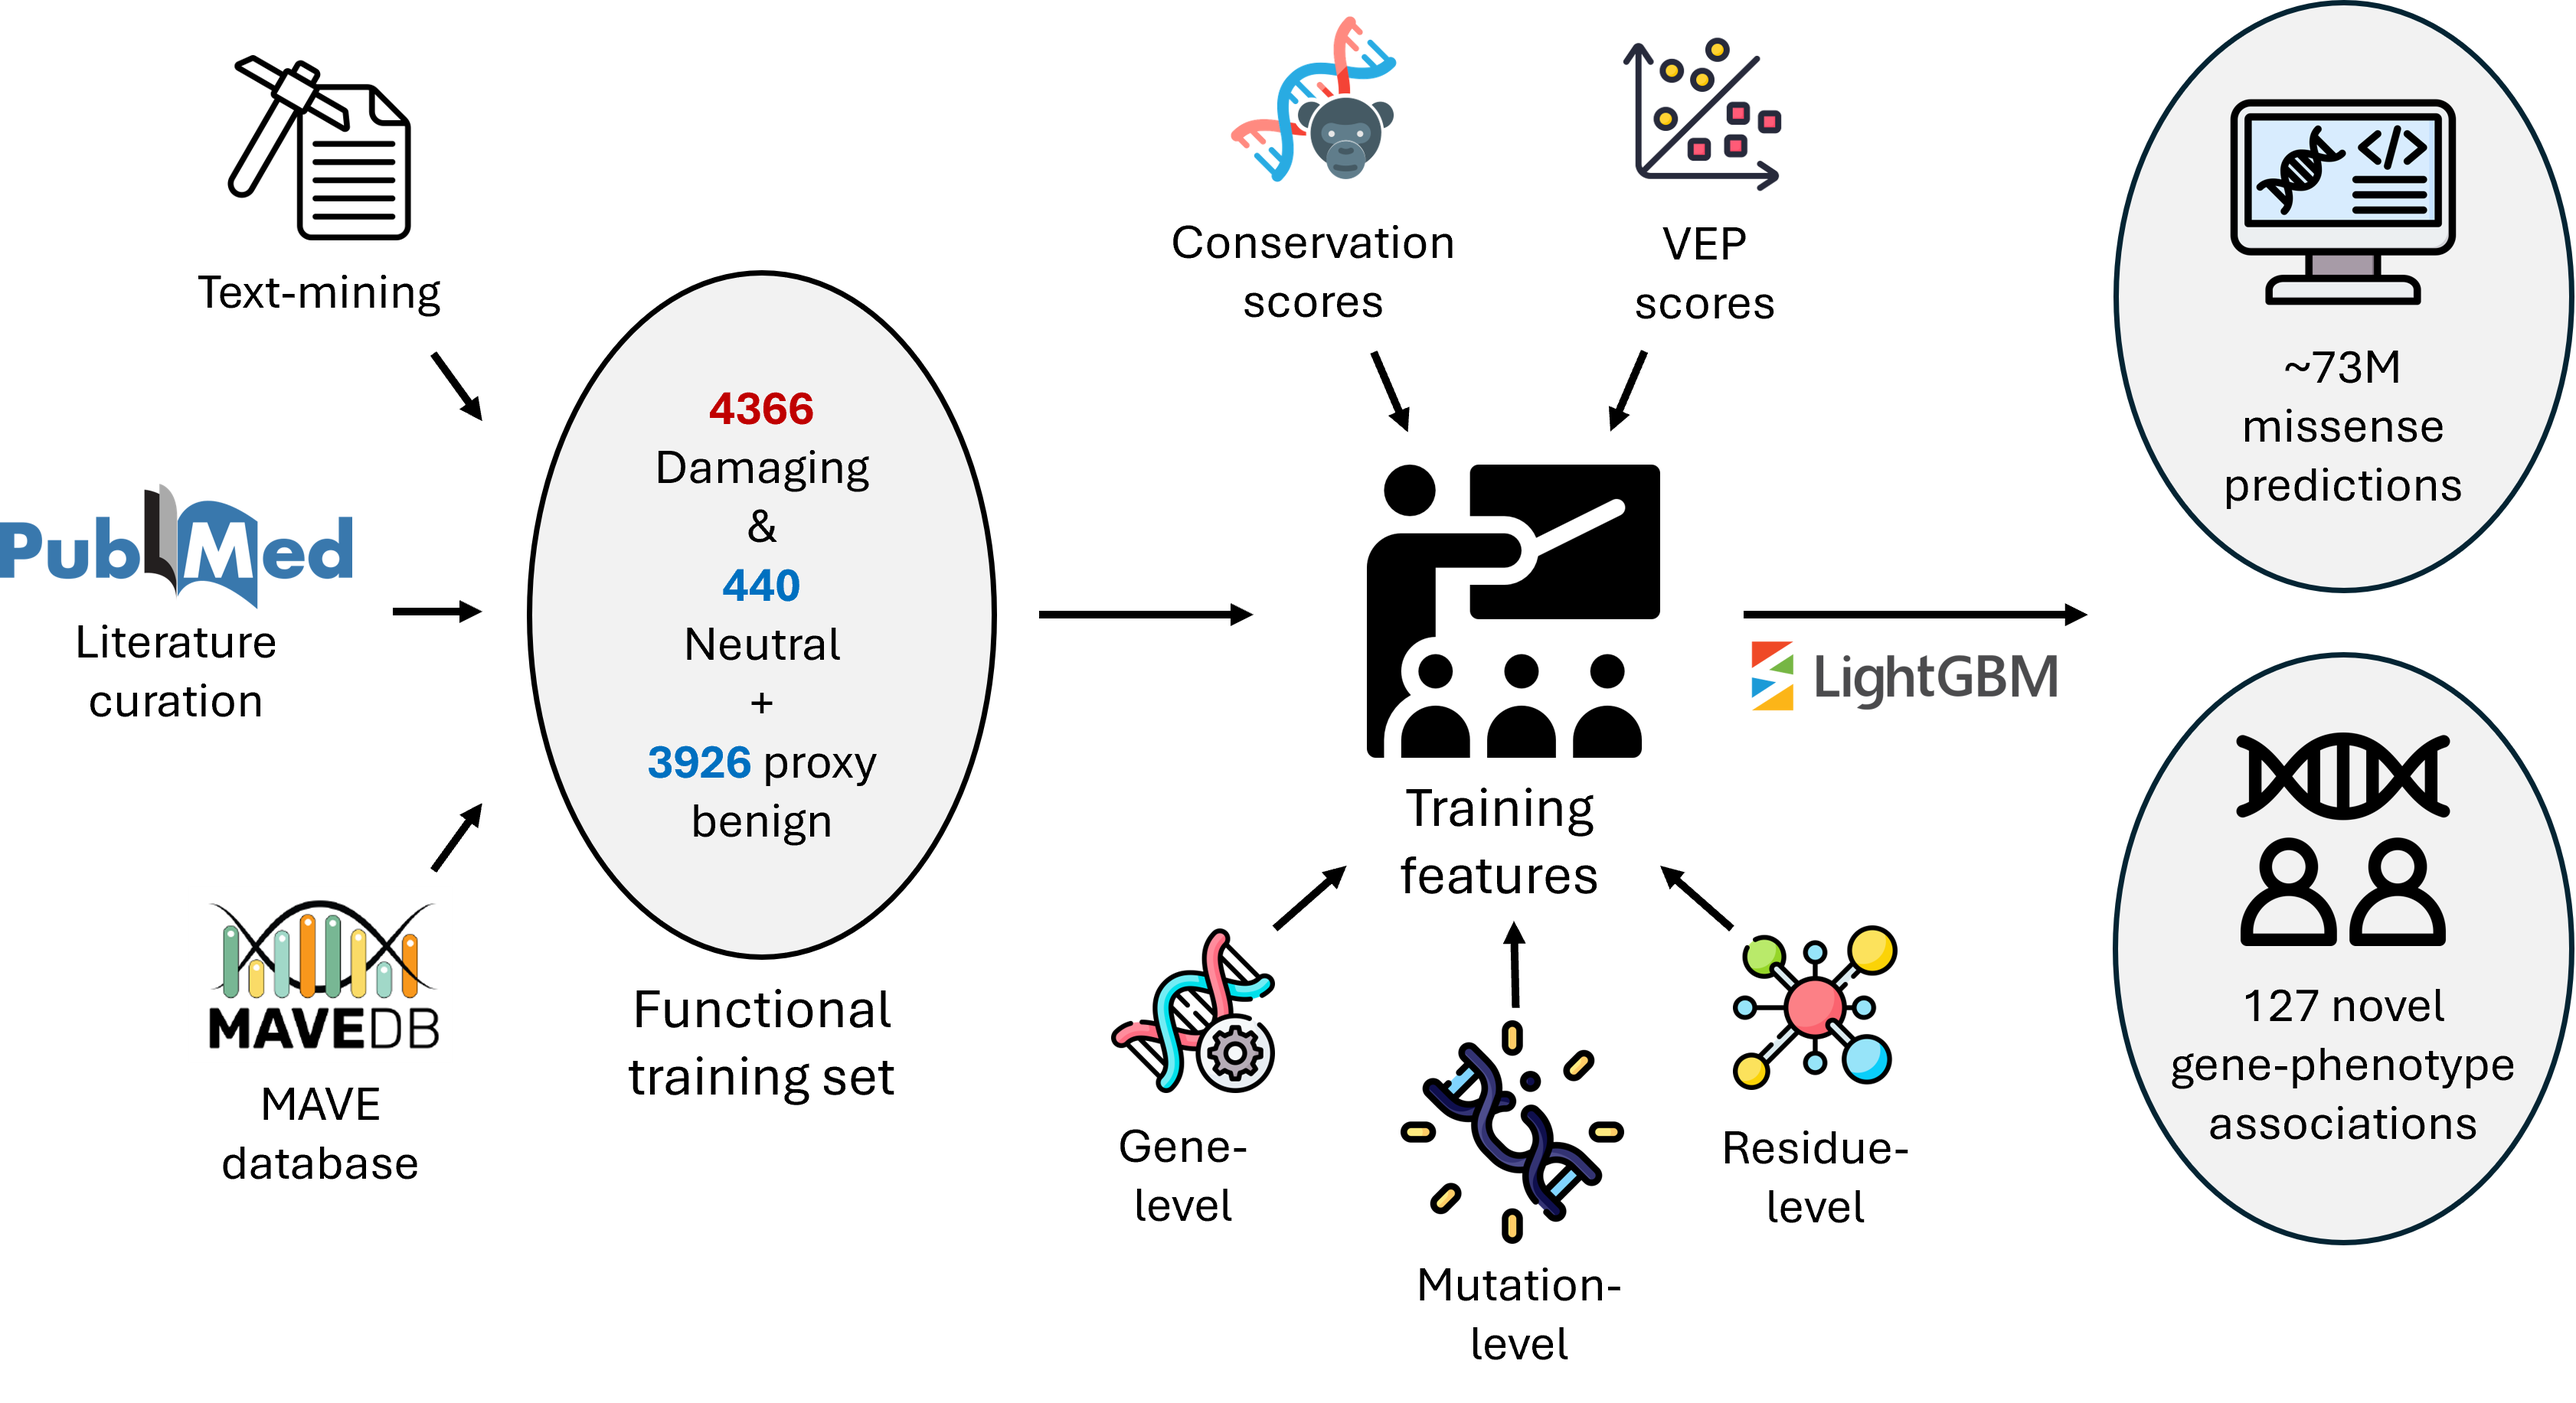
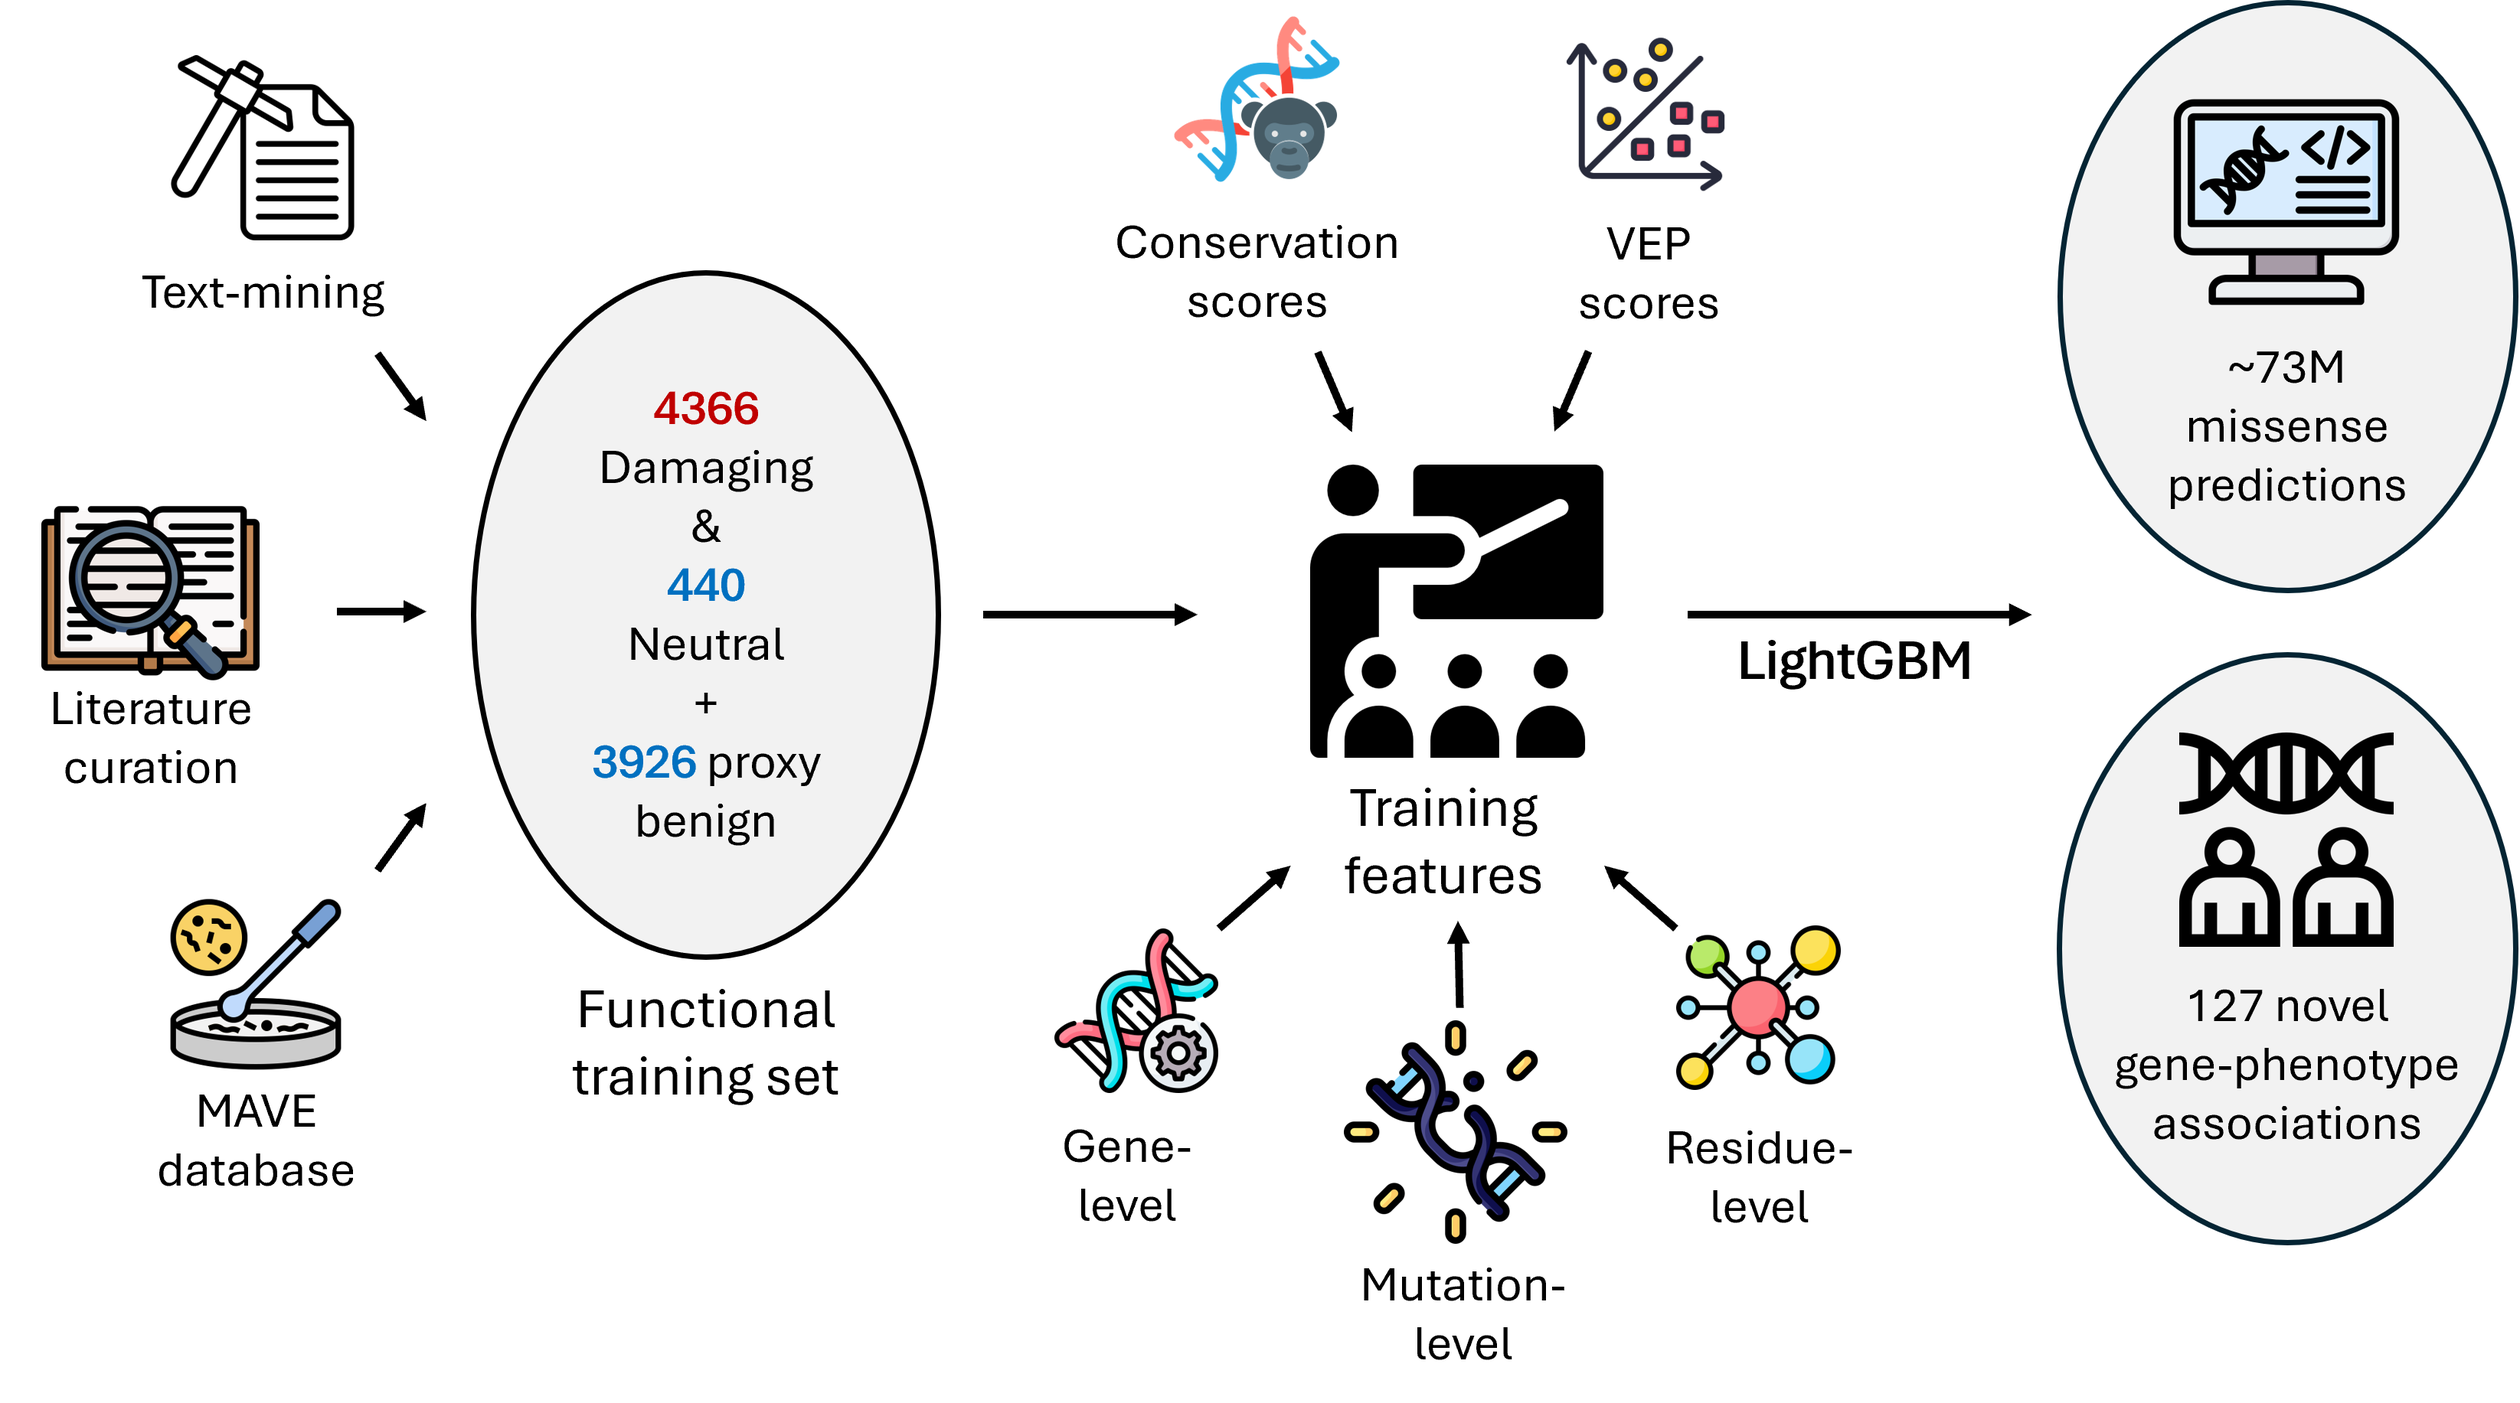
Update README and framework figure

diff --git a/README.md b/README.md
@@ -3,10 +3,7 @@
 FuncVEP is a family of LightGBM classifiers for predicting the functional effect (Damaging / Neutral) of missense variants. It is trained on balanced and diverse functional data, enabling improved accuracy and generalization.
 
 - FuncVEP Web Portal: https://funcvep.bilkent.edu.tr
-- Precomputed FuncVEP scores for all possible missense variants (preprint version): https://zenodo.org/records/17036008
-  - Updated scores will be made available upon publication.
-
-> **Note:** This is the updated implementation of the FuncVEP framework. The code corresponding to the preprint is available in the `preprint` branch for reproducibility.
+- Precomputed FuncVEP scores for all possible missense variants: https://zenodo.org/records/18432730
 
 ![FuncVEP Framework](resources/framework.png)
 
@@ -61,7 +58,9 @@ Run the following notebooks in order:
 
 ## Citation
 
-The FuncVEP paper will be provided as soon as it is available.
+If you use FuncVEP in your research, please cite:
+
+> Kayaalp, B., Çil, K., Conil, C. *et al.* Prediction of human missense variant effects from functional evidence. *Nature Genetics* (2026). https://doi.org/10.1038/s41588-026-02727-3
 
 ---
 
